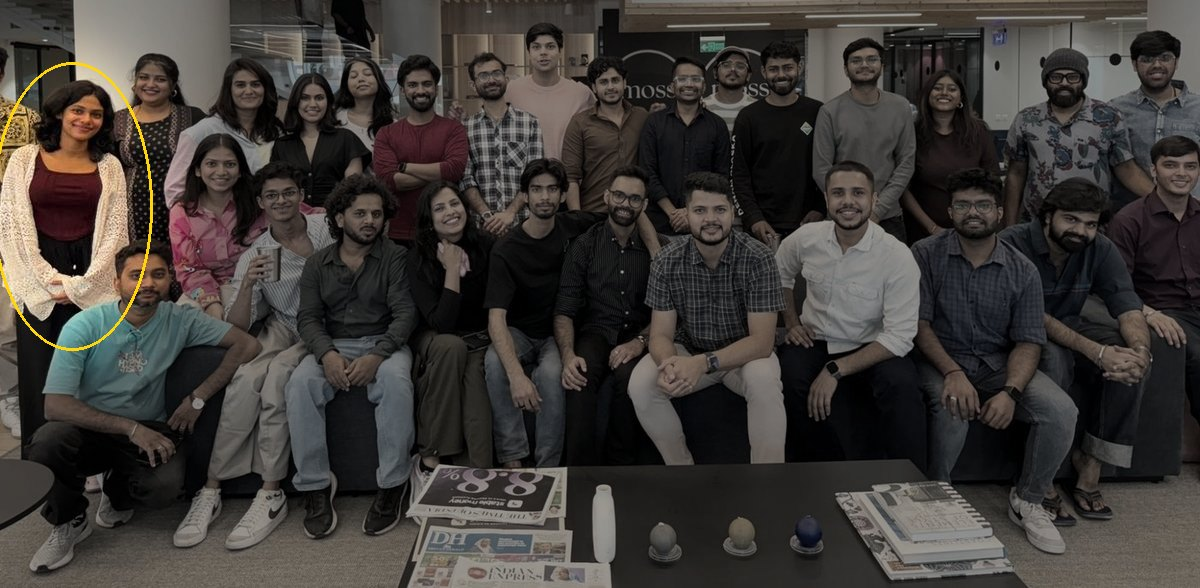
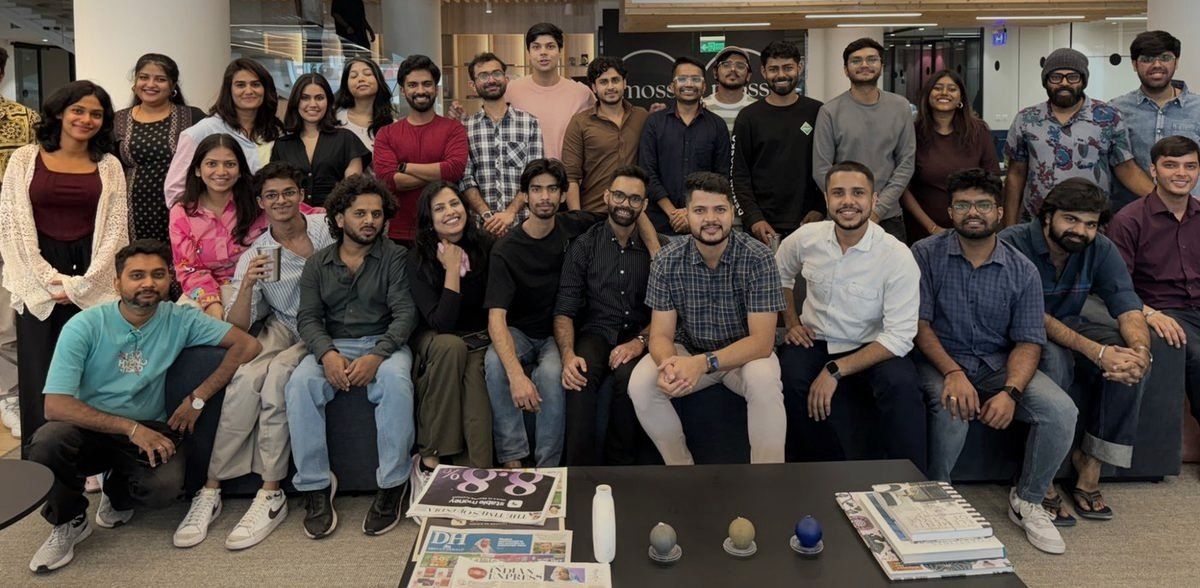
General portfolio framing; how-I-work steps; team photo with subtle highlight

diff --git a/index.html b/index.html
@@ -3,10 +3,10 @@
 <head>
 <meta charset="utf-8">
 <meta name="viewport" content="width=device-width, initial-scale=1">
-<title>Aira K. Salish | AI Generalist, Design</title>
-<meta name="description" content="Aira K. Salish: I find the friction in creative workflows and build the AI tools that remove it. Generative video at 21M views, automation across 50+ workflows.">
-<meta property="og:title" content="Aira K. Salish | AI Generalist, Design">
-<meta property="og:description" content="I design for the designers: AI tools and workflows that remove friction.">
+<title>Aira K. Salish | AI tools for creative work</title>
+<meta name="description" content="Aira K. Salish builds generative visuals and the small AI tools that take repetitive work out of creative teams. 111M+ views on AI-made shorts, automation across 50+ workflows.">
+<meta property="og:title" content="Aira K. Salish | AI tools for creative work">
+<meta property="og:description" content="Generative visuals and the small tools that take the repetitive work out of creative teams.">
 <meta property="og:image" content="https://aira-salish-design.vercel.app/img/og.jpg">
 <meta property="og:url" content="https://aira-salish-design.vercel.app">
 <meta name="twitter:card" content="summary_large_image">
@@ -908,6 +908,24 @@
   body::before { display: none; }
   body.verse-on .hero h1 { text-shadow: 1.5px 0 0 rgba(255,31,75,.8), -1.5px 0 0 rgba(25,227,255,.8) !important; }
   body.verse-on .hero .role em { color: inherit; }
+
+  .steps { display: grid; grid-template-columns: repeat(4, 1fr); border-top: 1px solid var(--ink); }
+  .step { padding: 22px 22px 22px 0; display: flex; flex-direction: column; }
+  .step + .step { border-left: 1px solid var(--line); padding-left: 22px; }
+  .step .n { font-family: var(--mono); font-size: 12px; color: var(--accent); }
+  .step h3 { font-family: var(--serif); font-weight: 400; font-size: 26px; line-height: 1.1; margin-top: 10px; }
+  .step p { font-size: 15px; margin-top: 10px; flex: 1; }
+  .step .proof { font-family: var(--mono); font-size: 12px; color: var(--ink); margin-top: 16px; }
+  @media (max-width: 980px) { .steps { grid-template-columns: 1fr 1fr; } .step:nth-child(3) { border-left: 0; padding-left: 0; } .step:nth-child(n+3) { border-top: 1px solid var(--line); } }
+  @media (max-width: 600px) { .steps { grid-template-columns: 1fr; } .step + .step { border-left: 0; padding-left: 0; border-top: 1px solid var(--line); } }
+
+  .team { margin: 32px 0 0; }
+  .team-btn { position: relative; display: block; width: 100%; padding: 0; border: 0; background: none; cursor: zoom-in; }
+  .team-btn img { width: 100%; height: auto; display: block; border-radius: 2px; }
+  .team .me { position: absolute; left: 6.6%; top: 9%; transform: translate(-50%, -100%); font-family: var(--mono); font-size: 11px; color: var(--ink); background: var(--bg); padding: 2px 7px; border-radius: 2px; opacity: .92; }
+  .team .me::after { content: ''; position: absolute; left: 50%; top: 100%; transform: translateX(-50%); border: 4px solid transparent; border-top-color: var(--bg); }
+  .team figcaption { margin-top: 10px; font-family: var(--mono); font-size: 12px; color: var(--muted); }
+  .team { max-width: 760px; }
 </style>
 </head>
 <body>
@@ -917,7 +935,7 @@
   <div class="wrap">
     <a class="brand" href="#">Aira K. Salish</a>
     <ul class="menu" id="menu">
-      <li><a href="#fit">The role</a></li>
+      <li><a href="#fit">How I work</a></li>
       <li><a href="#generative">Generative</a></li>
       <li><a href="#friction">Work</a></li>
       <li><a href="#projects">Tools</a></li>
@@ -938,7 +956,7 @@
 
 <nav class="rail" id="rail" aria-label="Sections">
   <a href="#abc">Highlights</a>
-  <a href="#fit">The role</a>
+  <a href="#fit">How I work</a>
   <a href="#generative">Generative</a>
   <a href="#friction">Work</a>
   <a href="#projects">Tools</a>
@@ -950,10 +968,10 @@
 <main class="wrap">
   <section class="hero">
     <div>
-      <p class="avail">Available now · open to relocating to Bangalore for 6 months</p>
+      <p class="avail">Open to internships and 2027 roles · happy to relocate</p>
       <h1>Aira <em>K.</em> Salish</h1>
-      <p class="role">I design <em>for the designers.</em></p>
-      <p class="intro">I find the slow, repetitive parts of creative work and build the AI tools that remove them. Final-year AI &amp; ML at SRM.</p>
+      <p class="role">I take the <em>busywork</em> out of creative work.</p>
+      <p class="intro">Generative visuals, and the small AI tools that make a creative team faster. Final-year AI &amp; ML at SRM, Chennai.</p>
       <div class="cta">
         <button class="btn primary" data-compose="call">Email to schedule a call</button>
         <a class="btn" href="docs/aira-salish-resume-design.pdf" download="Aira-Salish-Resume.pdf">Download résumé</a>
@@ -997,21 +1015,33 @@
   </section>
 
   <section class="block" id="fit">
-    <div class="head"><div><span class="kicker">The role, mapped</span><h2>What the job asks. What I've done.</h2></div><p>Each line of the AI Generalist, Design brief, next to where I've already done it.</p></div>
-    <div class="fit">
-      <div class="fit-row"><span class="ask">Find the friction</span><p>At BabyBillion the complaint was "output is slow". I watched how the work really happened and found the cause: small mechanical steps repeated for every piece.</p></div>
-      <div class="fit-row"><span class="ask">Explore &amp; test AI tools</span><p>Shipped work with Runway and other generative video tools, and tested AI output against real use with graded test sets at The Spotted App.</p></div>
-      <div class="fit-row"><span class="ask">Build simple tools</span><p>Python, JavaScript and n8n. Building THROUGHLINE, a tool that keeps a design language consistent across every AI generation.</p></div>
-      <div class="fit-row"><span class="ask">Integrate into workflows</span><p>Automation across 50+ live production workflows, with an organised asset pipeline behind it.</p></div>
-      <div class="fit-row"><span class="ask">Document it</span><p>Wrote the playbook a whole team adopted, and the guides that let colleagues run dashboards without me.</p></div>
-      <div class="fit-row"><span class="ask">Use data</span><p>Made reporting 30% faster and built self-serve dashboards to see how the work actually gets done.</p></div>
-      <div class="fit-row"><span class="ask">Deploy it</span><p>Web apps, prototypes and internal tools live on Vercel and AWS, so people can actually open them.</p></div>
-      <div class="fit-row"><span class="ask">Present findings</span><p>Reported findings directly to founders, and defended a design in a live 30-minute technical review.</p></div>
+    <div class="head"><div><span class="kicker">How I work</span><h2>Watch, test, build, ship</h2></div><p>The same four steps, whether it's a video pipeline or an internal tool.</p></div>
+    <div class="steps">
+      <article class="step">
+        <span class="n">01</span><h3>Watch the work</h3>
+        <p>People describe the problem; the work shows it. At BabyBillion "output is slow" turned out to be small steps repeated for every single video.</p>
+        <span class="proof">→ found the real bottleneck</span>
+      </article>
+      <article class="step">
+        <span class="n">02</span><h3>Test the tools</h3>
+        <p>I try the new AI tools, then test them against real use, not demos. Graded test sets, failure cases, a clear bar to pass.</p>
+        <span class="proof">→ 35% fewer wrong answers</span>
+      </article>
+      <article class="step">
+        <span class="n">03</span><h3>Build the small thing</h3>
+        <p>The smallest tool that removes the step: a Python script, an n8n flow, a prompt system that keeps a look consistent.</p>
+        <span class="proof">→ 50+ workflows automated</span>
+      </article>
+      <article class="step">
+        <span class="n">04</span><h3>Ship it, write it down</h3>
+        <p>Deployed so people can open it, with a guide they can follow without me. A tool nobody uses isn't finished.</p>
+        <span class="proof">→ playbook the team adopted</span>
+      </article>
     </div>
   </section>
 
   <section class="block" id="generative">
-    <div class="head"><div><span class="kicker">Generative work</span><h2>2D sketch → 3D character → 111M views</h2></div><p>The hard part of generative work is keeping a look consistent. Same problem as a design language.</p></div>
+    <div class="head"><div><span class="kicker">Generative work</span><h2>2D sketch → 3D character → 111M views</h2></div><p>The hard part of generative work is keeping a look consistent from one piece to the next.</p></div>
     <div class="gen">
       <div class="gen-text">
         <h3>BabyBillion · kids' content, 1.5B+ monthly views</h3>
@@ -1069,6 +1099,13 @@
         </div>
       </article>
     </div>
+    <figure class="team">
+      <button class="team-btn" data-open="img/bb-team-me.jpg" data-cap="With the BabyBillion team, Bengaluru, 2025 (far left, white cardigan)">
+        <img src="img/bb-team-me.jpg" alt="Aira with the BabyBillion team in Bengaluru" loading="lazy">
+        <span class="me">me</span>
+      </button>
+      <figcaption>With the BabyBillion team, Bengaluru, 2025</figcaption>
+    </figure>
   </section>
 
   <section class="block" id="projects">
@@ -1195,7 +1232,7 @@
   <section class="contact" id="contact">
     <div>
       <h2>Let's talk.</h2>
-      <p>Available immediately, full-time for 6 months in Bangalore.</p>
+      <p>Open to internships and 2027 roles. One click opens a ready-to-send email.</p>
       <div class="c-row">
         <button class="c-mini" data-copy="airasalish@gmail.com">Copy email</button>
         <button class="c-mini" data-vcard>Save contact</button>
@@ -1211,7 +1248,7 @@
     </div>
   </section>
 
-  <footer><span>© 2026 Aira K. Salish</span><span>Kannur → Chennai → Bangalore?</span></footer>
+  <footer><span>© 2026 Aira K. Salish</span><span>Kannur → Chennai</span></footer>
 </main>
 
 <dialog id="compose" aria-labelledby="cTitle">
@@ -1383,12 +1420,12 @@ const templates = {
       { k: 'to', label: 'Colleague\'s email (optional)', type: 'email', full: true },
       { k: 'name', label: 'Your name', full: true }
     ],
-    subject: f => `Candidate for AI Generalist, Design: Aira K. Salish`,
-    body: f => `Hi,\n\nSharing a candidate for our AI roles: Aira K. Salish.\n\n`
+    subject: f => `Candidate worth a look: Aira K. Salish`,
+    body: f => `Hi,\n\nSharing a candidate worth a look: Aira K. Salish.\n\n`
       + `- Built the prompt system behind AI-made shorts at 21M and 20M views\n`
       + `- Automated 50+ production workflows with Python and n8n, cutting 40% of repetitive work\n`
       + `- Deploys what she builds (Vercel, AWS) and writes the guides that get it adopted\n`
-      + `- Available now for 6 months in Bangalore\n\n`
+      + `- Open to internships and 2027 roles, happy to relocate\n\n`
       + `Portfolio: ${SITE}\nRésumé: ${SITE}/docs/aira-salish-resume-design.pdf\nEmail: ${ME}\n\n${f.name || ''}\n`
   },
   hello: {
